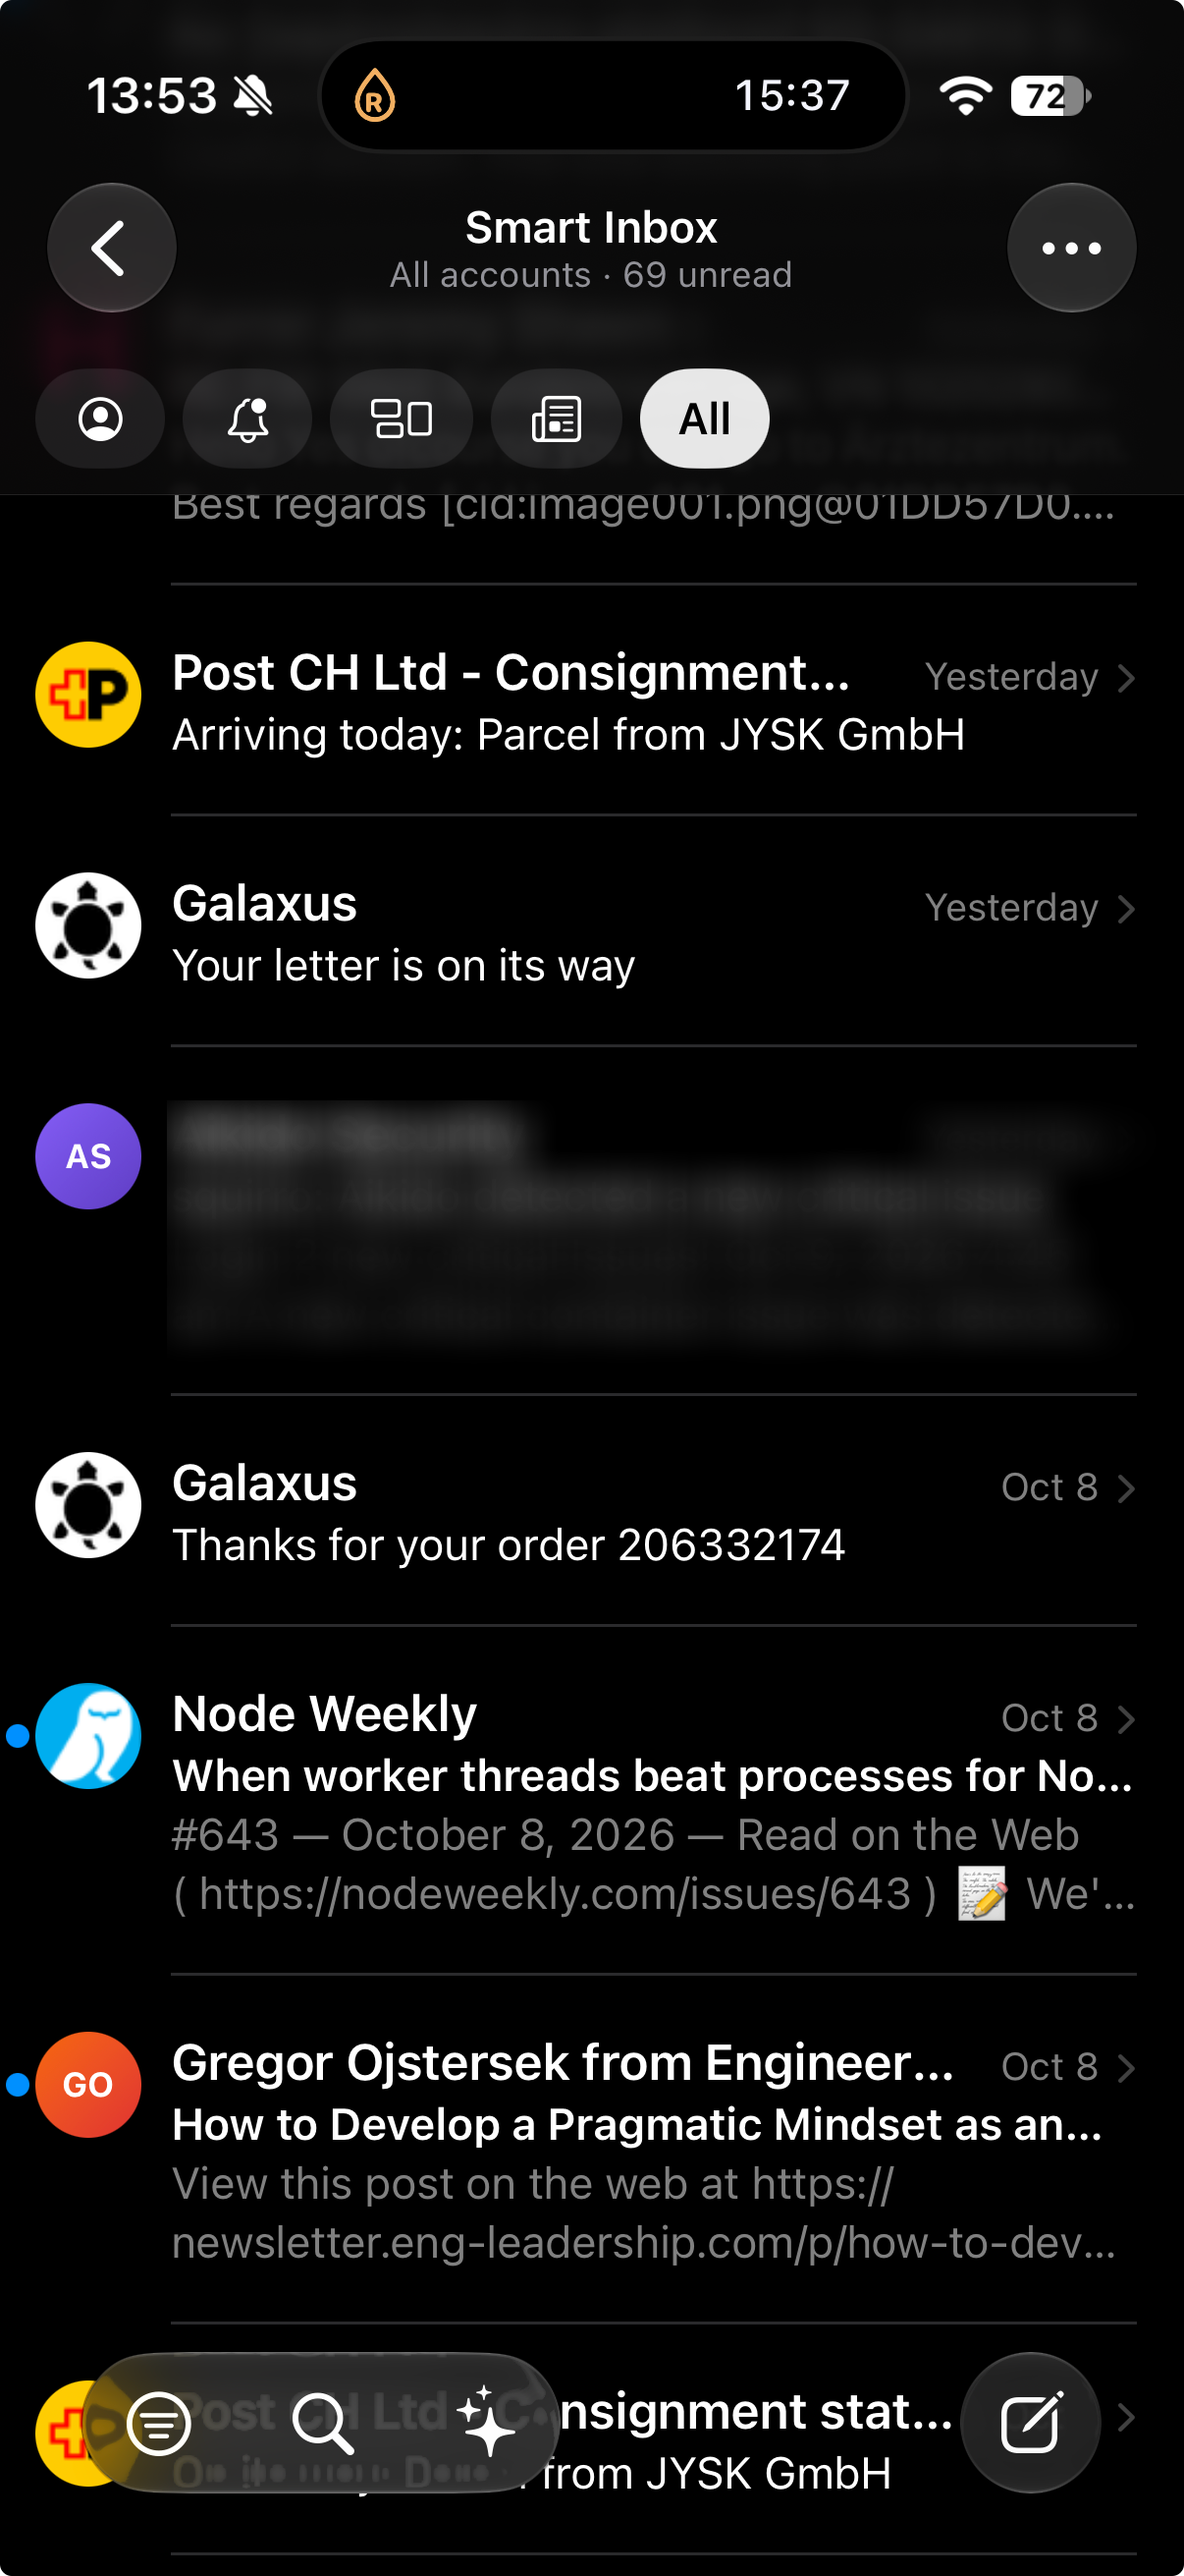
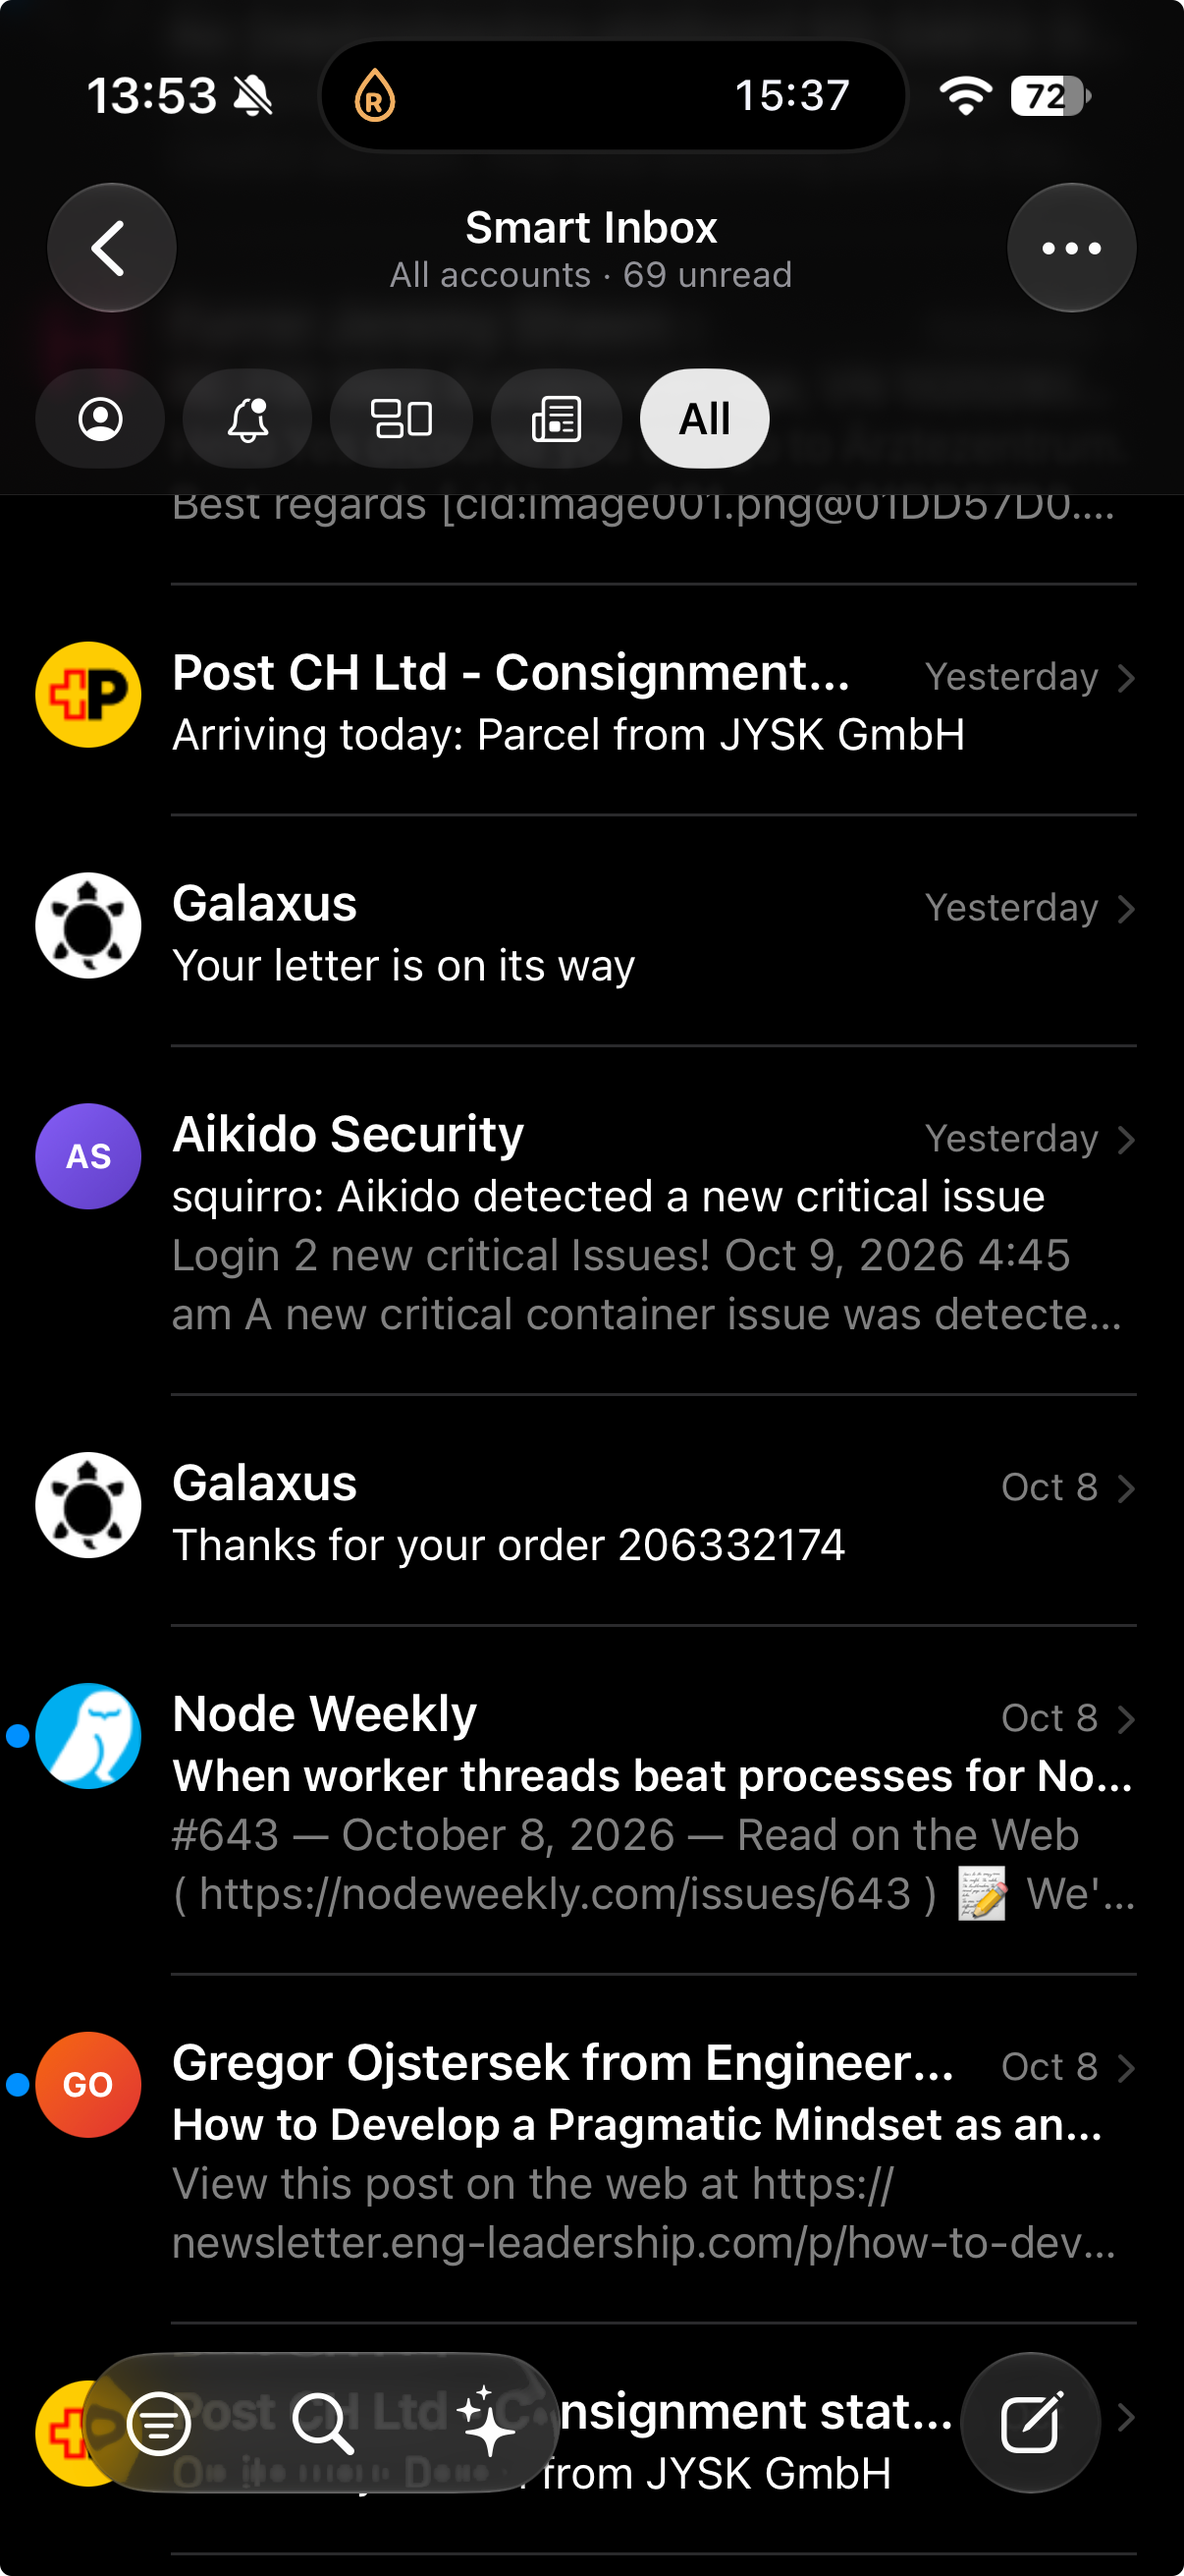
docs: show the Smart Inbox capture without the blurred row

Changed region(s): [[0.1227, 0.4016, 0.9204, 0.5252], [0.8897, 0.4943, 0.9204, 0.5252]]

diff --git a/README.md b/README.md
@@ -23,8 +23,8 @@ side.
 ![Plainpost macOS compose window](docs/screenshots/macos-compose.png)
 
 The iOS images are captures from an iPhone running Plainpost on the author's
-own mailboxes; one message in the inbox is blurred. The macOS compose capture
-is generated by Plainpost's design-snapshot target with synthetic fixture data.
+own mailboxes. The macOS compose capture is generated by Plainpost's
+design-snapshot target with synthetic fixture data.
 
 ## Features
 
